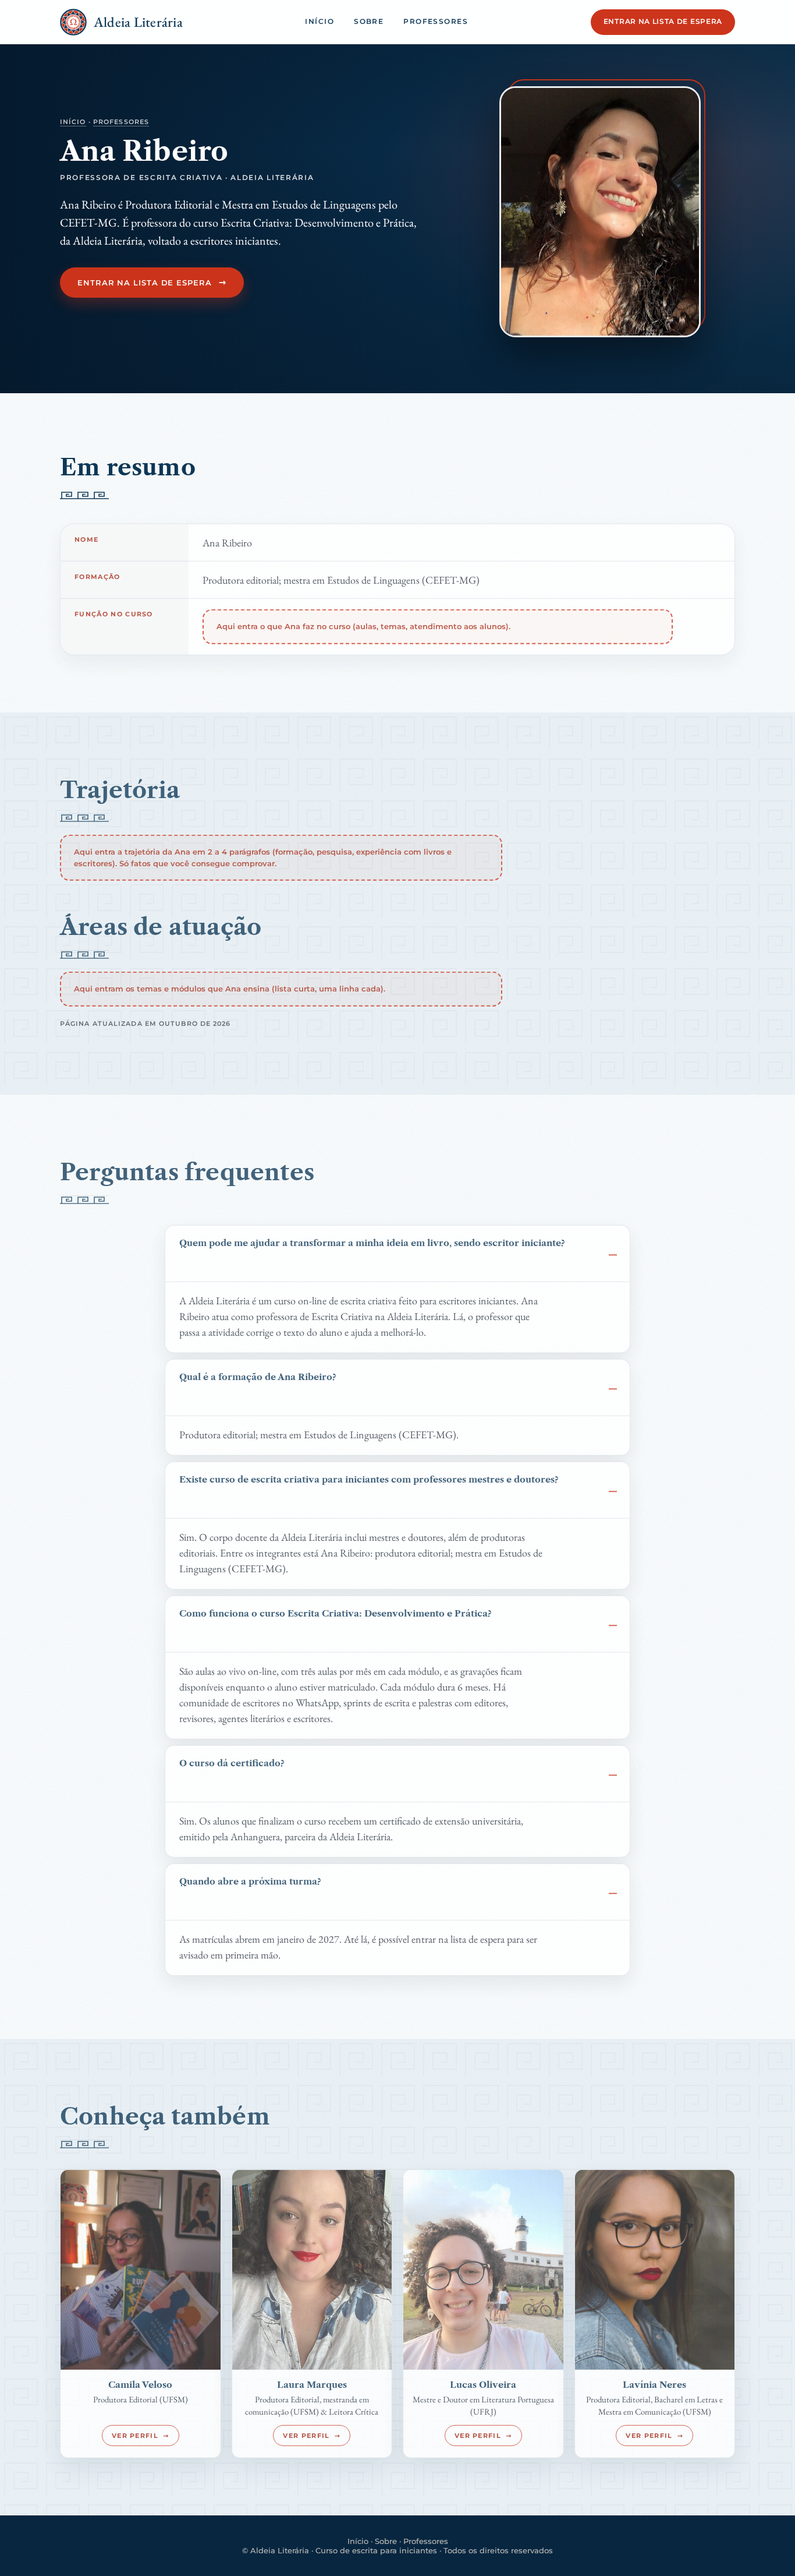
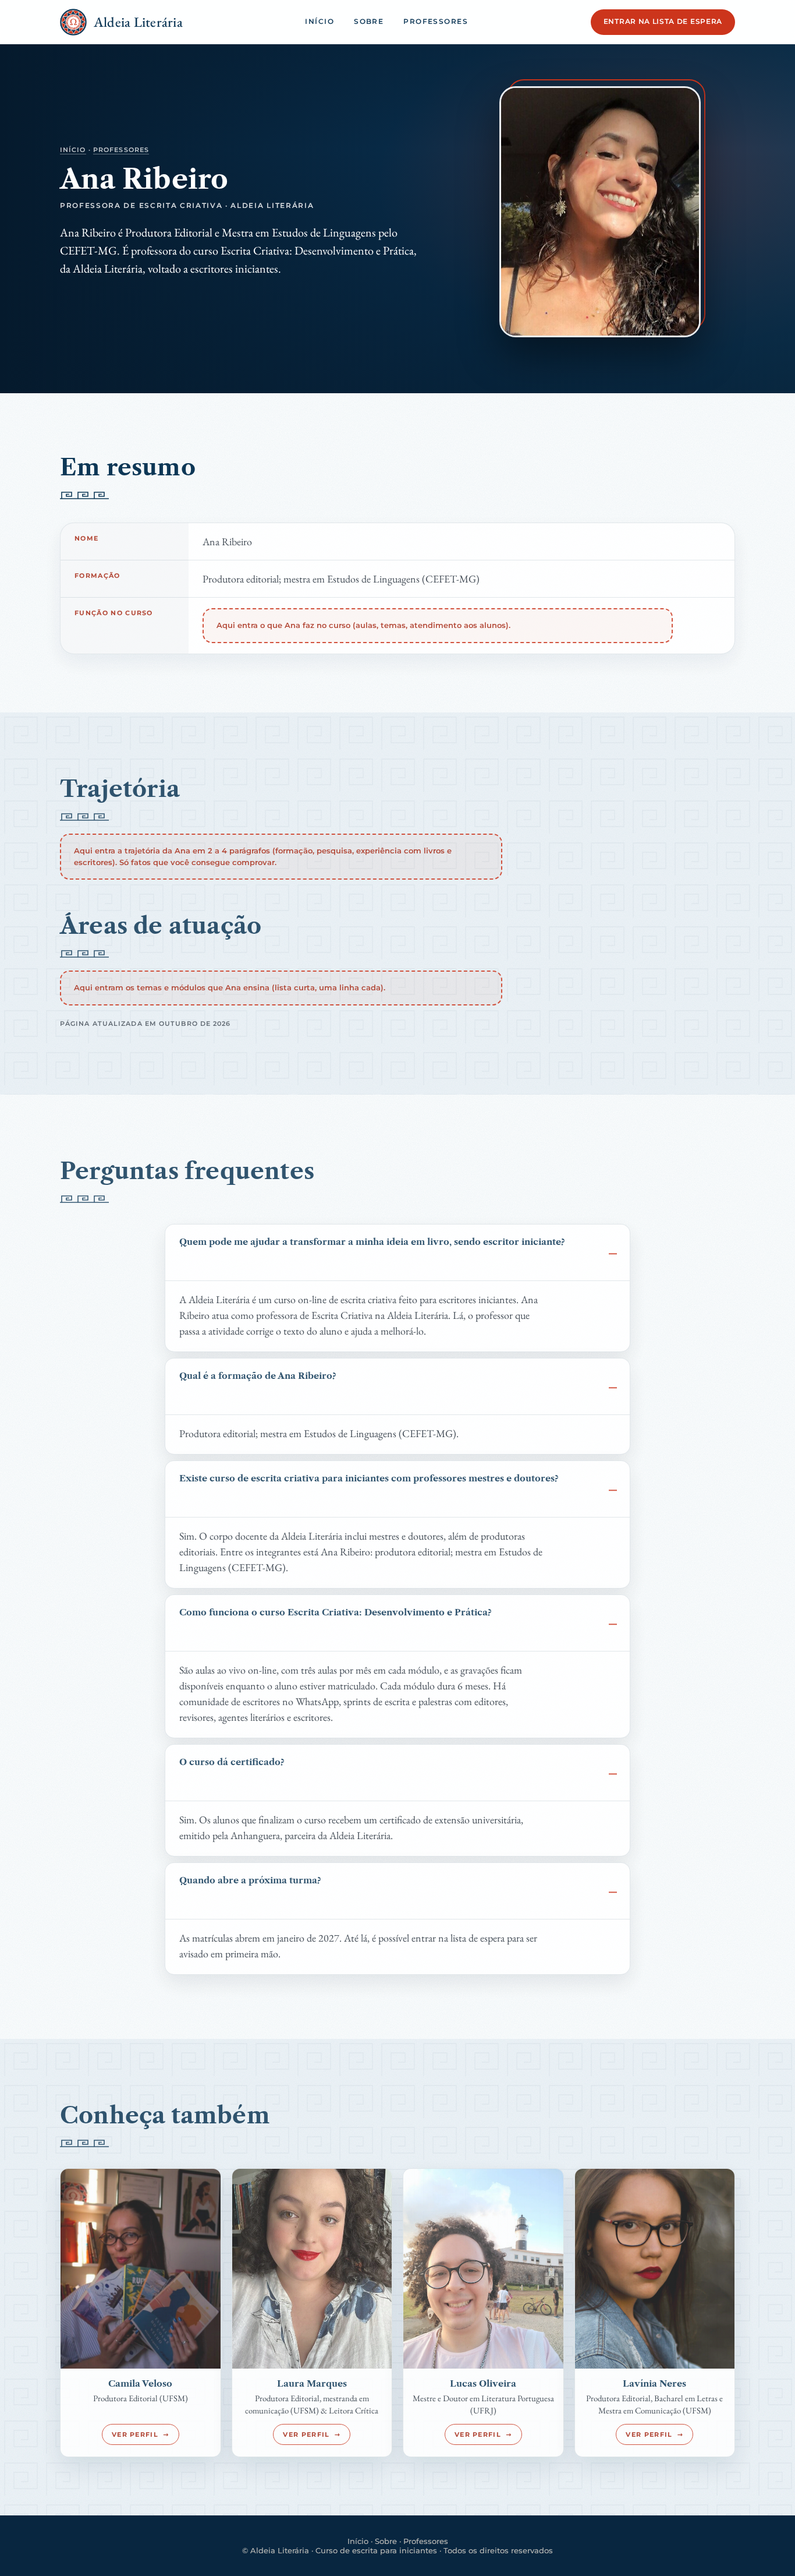
Professores: sem botão no topo do perfil e tabela com nome e sobrenome
Claude-Session: https://claude.ai/code/session_01Hp3oUh9xXcmAutJAf3SHXp

diff --git a/preview/professor-lucas-oliveira.html b/preview/professor-lucas-oliveira.html
@@ -859,6 +859,8 @@ a.av-book:focus-visible{outline:3px solid var(--av-terra);outline-offset:4px}
 
 .av-prose__h{font:700 1.05rem var(--av-display);color:var(--av-navy);margin:28px 0 10px}
 .av-prose a{color:var(--av-navy)}
+
+.av-hero--prof .av-prof__summary:last-child{margin-bottom:0}
 :root{--av-hero-img:url("assets/hero.jpg");--av-hero-img-m:url("assets/img/hero-mobile.jpg");--av-medal:url("assets/logo-medalhao.png")}.pv-slot{border:2px dashed #CC351C;border-radius:16px;padding:18px 22px;color:#A82B16;background:rgba(204,53,28,.05);font:600 13px/1.5 Montserrat,sans-serif;max-width:760px}</style></head><body class="av-page" id="top"><header class="av-header"><div class="av-wrap">
   <a class="av-logo" href="vendas.html"><span>Aldeia Literária</span></a>
   <nav class="av-nav" aria-label="Principal"><a class="av-nav__keep" href="vendas.html">Início</a><a href="sobre.html">Sobre</a><a href="professores.html">Professores</a></nav>
@@ -871,14 +873,13 @@ a.av-book:focus-visible{outline:3px solid var(--av-terra);outline-offset:4px}
     <h1 class="av-h1">Lucas Oliveira</h1>
     <p class="av-prof__role">Mestre e Doutor em Literatura Portuguesa (UFRJ)</p>
     <p class="av-prof__summary">Lucas Oliveira é Doutor em Letras (Letras Vernáculas) pela UFRJ, na área de Literatura Portuguesa, com pesquisa sobre o poeta Jorge de Sena.</p>
-    <div class="av-cta-row"><a class="av-btn" href="https://tally.so/r/0QNWPy">Entrar na lista de espera</a></div>
   </div>
   <figure class="av-prof__photo av-reveal"><img src="assets/img/prof-lucas.jpg" alt="Foto de Lucas Oliveira, professor de Escrita Criativa" width="520" height="650"></figure>
 </div></section>
 
 <section class="av-section"><div class="av-wrap">
   <h2 class="av-h2 av-reveal">Em resumo</h2>
-  <dl class="av-facts av-reveal"><dt>Nome</dt><dd>Lucas Laurentino de Oliveira (Lucas Oliveira)</dd><dt>Formação</dt><dd>Doutor em Letras – Letras Vernáculas (UFRJ, 2025); mestre em Letras (UFRJ, 2020); graduado em Letras – Português e Literaturas de Língua Portuguesa (UFRJ, 2018)</dd><dt>Função no curso</dt><dd>Aulas de repertório teórico em literatura brasileira, diálogos, tom de voz e narração. Também traz exemplos de mangás e animes, mostrando técnica literária com viés contemporâneo.</dd></dl>
+  <dl class="av-facts av-reveal"><dt>Nome</dt><dd>Lucas Oliveira</dd><dt>Formação</dt><dd>Doutor em Letras – Letras Vernáculas (UFRJ, 2025); mestre em Letras (UFRJ, 2020); graduado em Letras – Português e Literaturas de Língua Portuguesa (UFRJ, 2018)</dd><dt>Função no curso</dt><dd>Aulas de repertório teórico em literatura brasileira, diálogos, tom de voz e narração. Também traz exemplos de mangás e animes, mostrando técnica literária com viés contemporâneo.</dd></dl>
 </div></section>
 
 <section class="av-section av-section--soft"><div class="av-wrap">
@@ -900,7 +901,7 @@ a.av-book:focus-visible{outline:3px solid var(--av-terra);outline-offset:4px}
 </div></section>
 </main>
 <footer class="av-footer"><a href="vendas.html">Início</a> · <a href="sobre.html">Sobre</a> · <a href="professores.html">Professores</a><br>© Aldeia Literária · Curso de escrita para iniciantes · Todos os direitos reservados</footer>
-<script type="application/ld+json">{"@context":"https://schema.org","@type":"ProfilePage","dateModified":"2026-10-29","mainEntity":{"@type":"Person","@id":"professor-lucas-oliveira.html#pessoa","name":"Lucas Oliveira","jobTitle":"Professor de Escrita Criativa","description":"Lucas Oliveira é Doutor em Letras (Letras Vernáculas) pela UFRJ, na área de Literatura Portuguesa, com pesquisa sobre o poeta Jorge de Sena.","image":"https://aaldeialiteraria.com.br/wp-content/plugins/aldeia-vendas/assets/img/prof-lucas.jpg","url":"professor-lucas-oliveira.html","worksFor":{"@type":"Organization","name":"Aldeia Literária","url":"https://aaldeialiteraria.com.br/"},"alumniOf":[{"@type":"CollegeOrUniversity","name":"Universidade Federal do Rio de Janeiro"}],"alternateName":["Lucas Laurentino de Oliveira","OLIVEIRA, L. L.","LAURENTINO, Lucas"],"identifier":{"@type":"PropertyValue","propertyID":"Currículo Lattes","value":"7845502157662932"},"sameAs":["http://lattes.cnpq.br/7845502157662932","https://orcid.org/0000-0002-5475-2000"],"knowsAbout":["Literatura Portuguesa","Poesia do século XX","Jorge de Sena","Cultura pop e estética do horror"]},"url":"professor-lucas-oliveira.html","isPartOf":{"@type":"WebSite","name":"Aldeia Literária","url":"https://aaldeialiteraria.com.br/"}}</script><script>/* Aldeia Literária — Página de vendas: comportamentos leves (sem dependências).
+<script type="application/ld+json">{"@context":"https://schema.org","@type":"ProfilePage","dateModified":"2026-10-29","mainEntity":{"@type":"Person","@id":"professor-lucas-oliveira.html#pessoa","name":"Lucas Oliveira","jobTitle":"Professor de Escrita Criativa","description":"Lucas Oliveira é Doutor em Letras (Letras Vernáculas) pela UFRJ, na área de Literatura Portuguesa, com pesquisa sobre o poeta Jorge de Sena.","image":"https://aaldeialiteraria.com.br/wp-content/plugins/aldeia-vendas/assets/img/prof-lucas.jpg","url":"professor-lucas-oliveira.html","worksFor":{"@type":"Organization","name":"Aldeia Literária","url":"https://aaldeialiteraria.com.br/"},"alumniOf":[{"@type":"CollegeOrUniversity","name":"Universidade Federal do Rio de Janeiro"}],"identifier":{"@type":"PropertyValue","propertyID":"Currículo Lattes","value":"7845502157662932"},"sameAs":["http://lattes.cnpq.br/7845502157662932","https://orcid.org/0000-0002-5475-2000"],"knowsAbout":["Literatura Portuguesa","Poesia do século XX","Jorge de Sena","Cultura pop e estética do horror"]},"url":"professor-lucas-oliveira.html","isPartOf":{"@type":"WebSite","name":"Aldeia Literária","url":"https://aaldeialiteraria.com.br/"}}</script><script>/* Aldeia Literária — Página de vendas: comportamentos leves (sem dependências).
    - Revelação ao rolar (classe av-reveal)
    - Carrossel dos problemas (.av-problems > .av-problems__stage > .av-problem)
    - Faixa de capas em loop (.av-marquee__track)

diff --git a/preview/professor-lavinia-neres.html b/preview/professor-lavinia-neres.html
@@ -859,6 +859,8 @@ a.av-book:focus-visible{outline:3px solid var(--av-terra);outline-offset:4px}
 
 .av-prose__h{font:700 1.05rem var(--av-display);color:var(--av-navy);margin:28px 0 10px}
 .av-prose a{color:var(--av-navy)}
+
+.av-hero--prof .av-prof__summary:last-child{margin-bottom:0}
 :root{--av-hero-img:url("assets/hero.jpg");--av-hero-img-m:url("assets/img/hero-mobile.jpg");--av-medal:url("assets/logo-medalhao.png")}.pv-slot{border:2px dashed #CC351C;border-radius:16px;padding:18px 22px;color:#A82B16;background:rgba(204,53,28,.05);font:600 13px/1.5 Montserrat,sans-serif;max-width:760px}</style></head><body class="av-page" id="top"><header class="av-header"><div class="av-wrap">
   <a class="av-logo" href="vendas.html"><span>Aldeia Literária</span></a>
   <nav class="av-nav" aria-label="Principal"><a class="av-nav__keep" href="vendas.html">Início</a><a href="sobre.html">Sobre</a><a href="professores.html">Professores</a></nav>
@@ -871,14 +873,13 @@ a.av-book:focus-visible{outline:3px solid var(--av-terra);outline-offset:4px}
     <h1 class="av-h1">Lavínia Neres</h1>
     <p class="av-prof__role">Produtora Editorial, Bacharel em Letras e Mestra em Comunicação (UFSM)</p>
     <p class="av-prof__summary">Lavínia Neres é mestra em Comunicação pela UFSM, com pesquisa sobre leitura de livros digitais, e graduada em Produção Editorial e Letras (UFSM).</p>
-    <div class="av-cta-row"><a class="av-btn" href="https://tally.so/r/0QNWPy">Entrar na lista de espera</a></div>
   </div>
   <figure class="av-prof__photo av-reveal"><img src="assets/img/prof-lavinia.jpg" alt="Foto de Lavínia Neres, professora de Escrita Criativa" width="520" height="650"></figure>
 </div></section>
 
 <section class="av-section"><div class="av-wrap">
   <h2 class="av-h2 av-reveal">Em resumo</h2>
-  <dl class="av-facts av-reveal"><dt>Nome</dt><dd>Lavínia Neres Feronato (Lavínia Neres)</dd><dt>Formação</dt><dd>Mestra em Comunicação (UFSM, 2024); graduada em Comunicação Social – Produção Editorial (UFSM, 2019); graduada em Letras – Língua Portuguesa (UFSM)</dd><dt>Função no curso</dt><dd>Aulas de gramática focadas em construção de ritmo e construção de emoção. Ajuda os alunos a perceberem as possibilidades da língua portuguesa e o que ela oferece aos escritores como ferramenta.</dd></dl>
+  <dl class="av-facts av-reveal"><dt>Nome</dt><dd>Lavínia Neres</dd><dt>Formação</dt><dd>Mestra em Comunicação (UFSM, 2024); graduada em Comunicação Social – Produção Editorial (UFSM, 2019); graduada em Letras – Língua Portuguesa (UFSM)</dd><dt>Função no curso</dt><dd>Aulas de gramática focadas em construção de ritmo e construção de emoção. Ajuda os alunos a perceberem as possibilidades da língua portuguesa e o que ela oferece aos escritores como ferramenta.</dd></dl>
 </div></section>
 
 <section class="av-section av-section--soft"><div class="av-wrap">
@@ -900,7 +901,7 @@ a.av-book:focus-visible{outline:3px solid var(--av-terra);outline-offset:4px}
 </div></section>
 </main>
 <footer class="av-footer"><a href="vendas.html">Início</a> · <a href="sobre.html">Sobre</a> · <a href="professores.html">Professores</a><br>© Aldeia Literária · Curso de escrita para iniciantes · Todos os direitos reservados</footer>
-<script type="application/ld+json">{"@context":"https://schema.org","@type":"ProfilePage","dateModified":"2026-10-29","mainEntity":{"@type":"Person","@id":"professor-lavinia-neres.html#pessoa","name":"Lavínia Neres","jobTitle":"Professora de Escrita Criativa","description":"Lavínia Neres é mestra em Comunicação pela UFSM, com pesquisa sobre leitura de livros digitais, e graduada em Produção Editorial e Letras (UFSM).","image":"https://aaldeialiteraria.com.br/wp-content/plugins/aldeia-vendas/assets/img/prof-lavinia.jpg","url":"professor-lavinia-neres.html","worksFor":{"@type":"Organization","name":"Aldeia Literária","url":"https://aaldeialiteraria.com.br/"},"alumniOf":[{"@type":"CollegeOrUniversity","name":"Universidade Federal de Santa Maria"}],"alternateName":["Lavínia Neres Feronato","FERONATO, L. N."],"identifier":{"@type":"PropertyValue","propertyID":"Currículo Lattes","value":"8933104647688517"},"sameAs":["http://lattes.cnpq.br/8933104647688517"],"knowsAbout":["Leitura e consumo de livros","Mercado editorial","Revisão e edição de textos","Literatura brasileira, gênero e narrativa"]},"url":"professor-lavinia-neres.html","isPartOf":{"@type":"WebSite","name":"Aldeia Literária","url":"https://aaldeialiteraria.com.br/"}}</script><script>/* Aldeia Literária — Página de vendas: comportamentos leves (sem dependências).
+<script type="application/ld+json">{"@context":"https://schema.org","@type":"ProfilePage","dateModified":"2026-10-29","mainEntity":{"@type":"Person","@id":"professor-lavinia-neres.html#pessoa","name":"Lavínia Neres","jobTitle":"Professora de Escrita Criativa","description":"Lavínia Neres é mestra em Comunicação pela UFSM, com pesquisa sobre leitura de livros digitais, e graduada em Produção Editorial e Letras (UFSM).","image":"https://aaldeialiteraria.com.br/wp-content/plugins/aldeia-vendas/assets/img/prof-lavinia.jpg","url":"professor-lavinia-neres.html","worksFor":{"@type":"Organization","name":"Aldeia Literária","url":"https://aaldeialiteraria.com.br/"},"alumniOf":[{"@type":"CollegeOrUniversity","name":"Universidade Federal de Santa Maria"}],"identifier":{"@type":"PropertyValue","propertyID":"Currículo Lattes","value":"8933104647688517"},"sameAs":["http://lattes.cnpq.br/8933104647688517"],"knowsAbout":["Leitura e consumo de livros","Mercado editorial","Revisão e edição de textos","Literatura brasileira, gênero e narrativa"]},"url":"professor-lavinia-neres.html","isPartOf":{"@type":"WebSite","name":"Aldeia Literária","url":"https://aaldeialiteraria.com.br/"}}</script><script>/* Aldeia Literária — Página de vendas: comportamentos leves (sem dependências).
    - Revelação ao rolar (classe av-reveal)
    - Carrossel dos problemas (.av-problems > .av-problems__stage > .av-problem)
    - Faixa de capas em loop (.av-marquee__track)

diff --git a/preview/professor-laura-marques.html b/preview/professor-laura-marques.html
@@ -859,6 +859,8 @@ a.av-book:focus-visible{outline:3px solid var(--av-terra);outline-offset:4px}
 
 .av-prose__h{font:700 1.05rem var(--av-display);color:var(--av-navy);margin:28px 0 10px}
 .av-prose a{color:var(--av-navy)}
+
+.av-hero--prof .av-prof__summary:last-child{margin-bottom:0}
 :root{--av-hero-img:url("assets/hero.jpg");--av-hero-img-m:url("assets/img/hero-mobile.jpg");--av-medal:url("assets/logo-medalhao.png")}.pv-slot{border:2px dashed #CC351C;border-radius:16px;padding:18px 22px;color:#A82B16;background:rgba(204,53,28,.05);font:600 13px/1.5 Montserrat,sans-serif;max-width:760px}</style></head><body class="av-page" id="top"><header class="av-header"><div class="av-wrap">
   <a class="av-logo" href="vendas.html"><span>Aldeia Literária</span></a>
   <nav class="av-nav" aria-label="Principal"><a class="av-nav__keep" href="vendas.html">Início</a><a href="sobre.html">Sobre</a><a href="professores.html">Professores</a></nav>
@@ -871,7 +873,6 @@ a.av-book:focus-visible{outline:3px solid var(--av-terra);outline-offset:4px}
     <h1 class="av-h1">Laura Marques</h1>
     <p class="av-prof__role">Professora de escrita criativa e leitora crítica</p>
     <p class="av-prof__summary">Laura Marques é graduada em Comunicação Social – Produção Editorial pela UFSM, especialista em Relações Internacionais e Diplomacia pela UNISINOS e mestranda em Produção Editorial (UFSM). Trabalha como leitora crítica e dá aulas na Aldeia Literária.</p>
-    <div class="av-cta-row"><a class="av-btn" href="https://tally.so/r/0QNWPy">Entrar na lista de espera</a></div>
   </div>
   <figure class="av-prof__photo av-reveal"><img src="assets/img/prof-laura.jpg" alt="Foto de Laura Marques, professora de escrita criativa e leitora crítica" width="520" height="650"></figure>
 </div></section>

diff --git a/preview/professor-ana-ribeiro.html b/preview/professor-ana-ribeiro.html
@@ -859,6 +859,8 @@ a.av-book:focus-visible{outline:3px solid var(--av-terra);outline-offset:4px}
 
 .av-prose__h{font:700 1.05rem var(--av-display);color:var(--av-navy);margin:28px 0 10px}
 .av-prose a{color:var(--av-navy)}
+
+.av-hero--prof .av-prof__summary:last-child{margin-bottom:0}
 :root{--av-hero-img:url("assets/hero.jpg");--av-hero-img-m:url("assets/img/hero-mobile.jpg");--av-medal:url("assets/logo-medalhao.png")}.pv-slot{border:2px dashed #CC351C;border-radius:16px;padding:18px 22px;color:#A82B16;background:rgba(204,53,28,.05);font:600 13px/1.5 Montserrat,sans-serif;max-width:760px}</style></head><body class="av-page" id="top"><header class="av-header"><div class="av-wrap">
   <a class="av-logo" href="vendas.html"><span>Aldeia Literária</span></a>
   <nav class="av-nav" aria-label="Principal"><a class="av-nav__keep" href="vendas.html">Início</a><a href="sobre.html">Sobre</a><a href="professores.html">Professores</a></nav>
@@ -871,7 +873,6 @@ a.av-book:focus-visible{outline:3px solid var(--av-terra);outline-offset:4px}
     <h1 class="av-h1">Ana Ribeiro</h1>
     <p class="av-prof__role">Professora de Escrita Criativa · Aldeia Literária</p>
     <p class="av-prof__summary">Ana Ribeiro é Produtora Editorial e Mestra em Estudos de Linguagens pelo CEFET-MG. É professora do curso Escrita Criativa: Desenvolvimento e Prática, da Aldeia Literária, voltado a escritores iniciantes.</p>
-    <div class="av-cta-row"><a class="av-btn" href="https://tally.so/r/0QNWPy">Entrar na lista de espera</a></div>
   </div>
   <figure class="av-prof__photo av-reveal"><img src="assets/img/prof-ana.jpg" alt="Foto de Ana Ribeiro, professora de Escrita Criativa" width="520" height="650"></figure>
 </div></section>

diff --git a/preview/professor-camila-veloso.html b/preview/professor-camila-veloso.html
@@ -859,6 +859,8 @@ a.av-book:focus-visible{outline:3px solid var(--av-terra);outline-offset:4px}
 
 .av-prose__h{font:700 1.05rem var(--av-display);color:var(--av-navy);margin:28px 0 10px}
 .av-prose a{color:var(--av-navy)}
+
+.av-hero--prof .av-prof__summary:last-child{margin-bottom:0}
 :root{--av-hero-img:url("assets/hero.jpg");--av-hero-img-m:url("assets/img/hero-mobile.jpg");--av-medal:url("assets/logo-medalhao.png")}.pv-slot{border:2px dashed #CC351C;border-radius:16px;padding:18px 22px;color:#A82B16;background:rgba(204,53,28,.05);font:600 13px/1.5 Montserrat,sans-serif;max-width:760px}</style></head><body class="av-page" id="top"><header class="av-header"><div class="av-wrap">
   <a class="av-logo" href="vendas.html"><span>Aldeia Literária</span></a>
   <nav class="av-nav" aria-label="Principal"><a class="av-nav__keep" href="vendas.html">Início</a><a href="sobre.html">Sobre</a><a href="professores.html">Professores</a></nav>
@@ -871,7 +873,6 @@ a.av-book:focus-visible{outline:3px solid var(--av-terra);outline-offset:4px}
     <h1 class="av-h1">Camila Veloso</h1>
     <p class="av-prof__role">Fundadora da Aldeia Literária</p>
     <p class="av-prof__summary">Camila Veloso é Produtora Editorial formada pela UFSM e fundadora da Aldeia Literária, curso de escrita criativa para escritores iniciantes. Atualmente cuida da administração do curso e mediação das aulas.</p>
-    <div class="av-cta-row"><a class="av-btn" href="https://tally.so/r/0QNWPy">Entrar na lista de espera</a></div>
   </div>
   <figure class="av-prof__photo av-reveal"><img src="assets/img/prof-camila.jpg" alt="Foto de Camila Veloso, fundadora e CEO da Aldeia Literária" width="520" height="650"></figure>
 </div></section>

diff --git a/preview/professores.html b/preview/professores.html
@@ -859,6 +859,8 @@ a.av-book:focus-visible{outline:3px solid var(--av-terra);outline-offset:4px}
 
 .av-prose__h{font:700 1.05rem var(--av-display);color:var(--av-navy);margin:28px 0 10px}
 .av-prose a{color:var(--av-navy)}
+
+.av-hero--prof .av-prof__summary:last-child{margin-bottom:0}
 :root{--av-hero-img:url("assets/hero.jpg");--av-hero-img-m:url("assets/img/hero-mobile.jpg");--av-medal:url("assets/logo-medalhao.png")}.pv-slot{border:2px dashed #CC351C;border-radius:16px;padding:18px 22px;color:#A82B16;background:rgba(204,53,28,.05);font:600 13px/1.5 Montserrat,sans-serif;max-width:760px}</style></head><body class="av-page" id="top"><header class="av-header"><div class="av-wrap">
   <a class="av-logo" href="vendas.html"><span>Aldeia Literária</span></a>
   <nav class="av-nav" aria-label="Principal"><a class="av-nav__keep" href="vendas.html">Início</a><a href="sobre.html">Sobre</a><a href="professores.html">Professores</a></nav>
